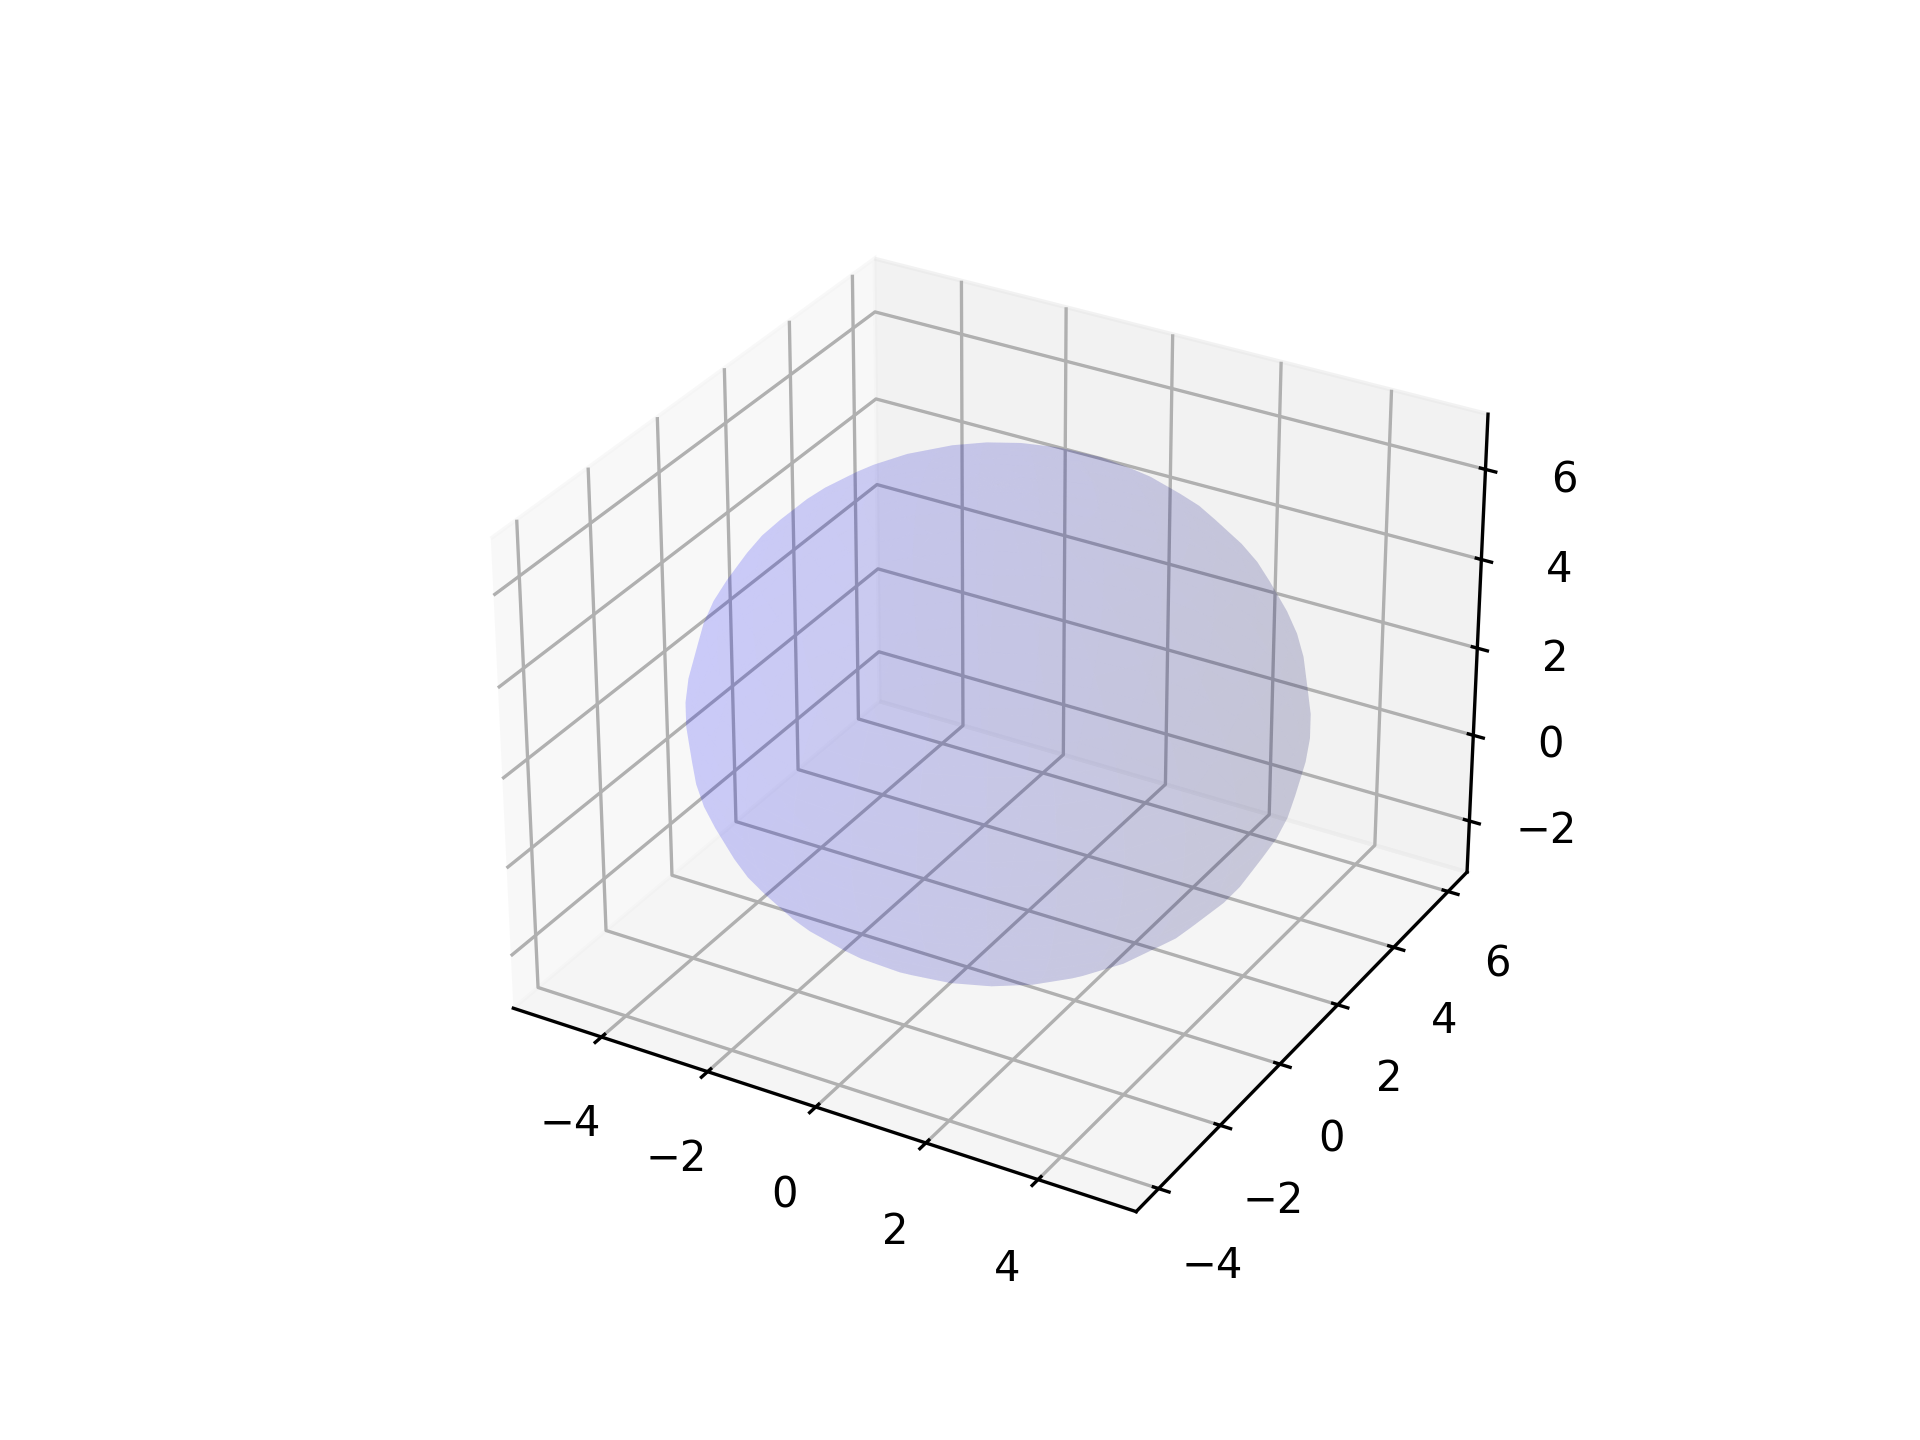
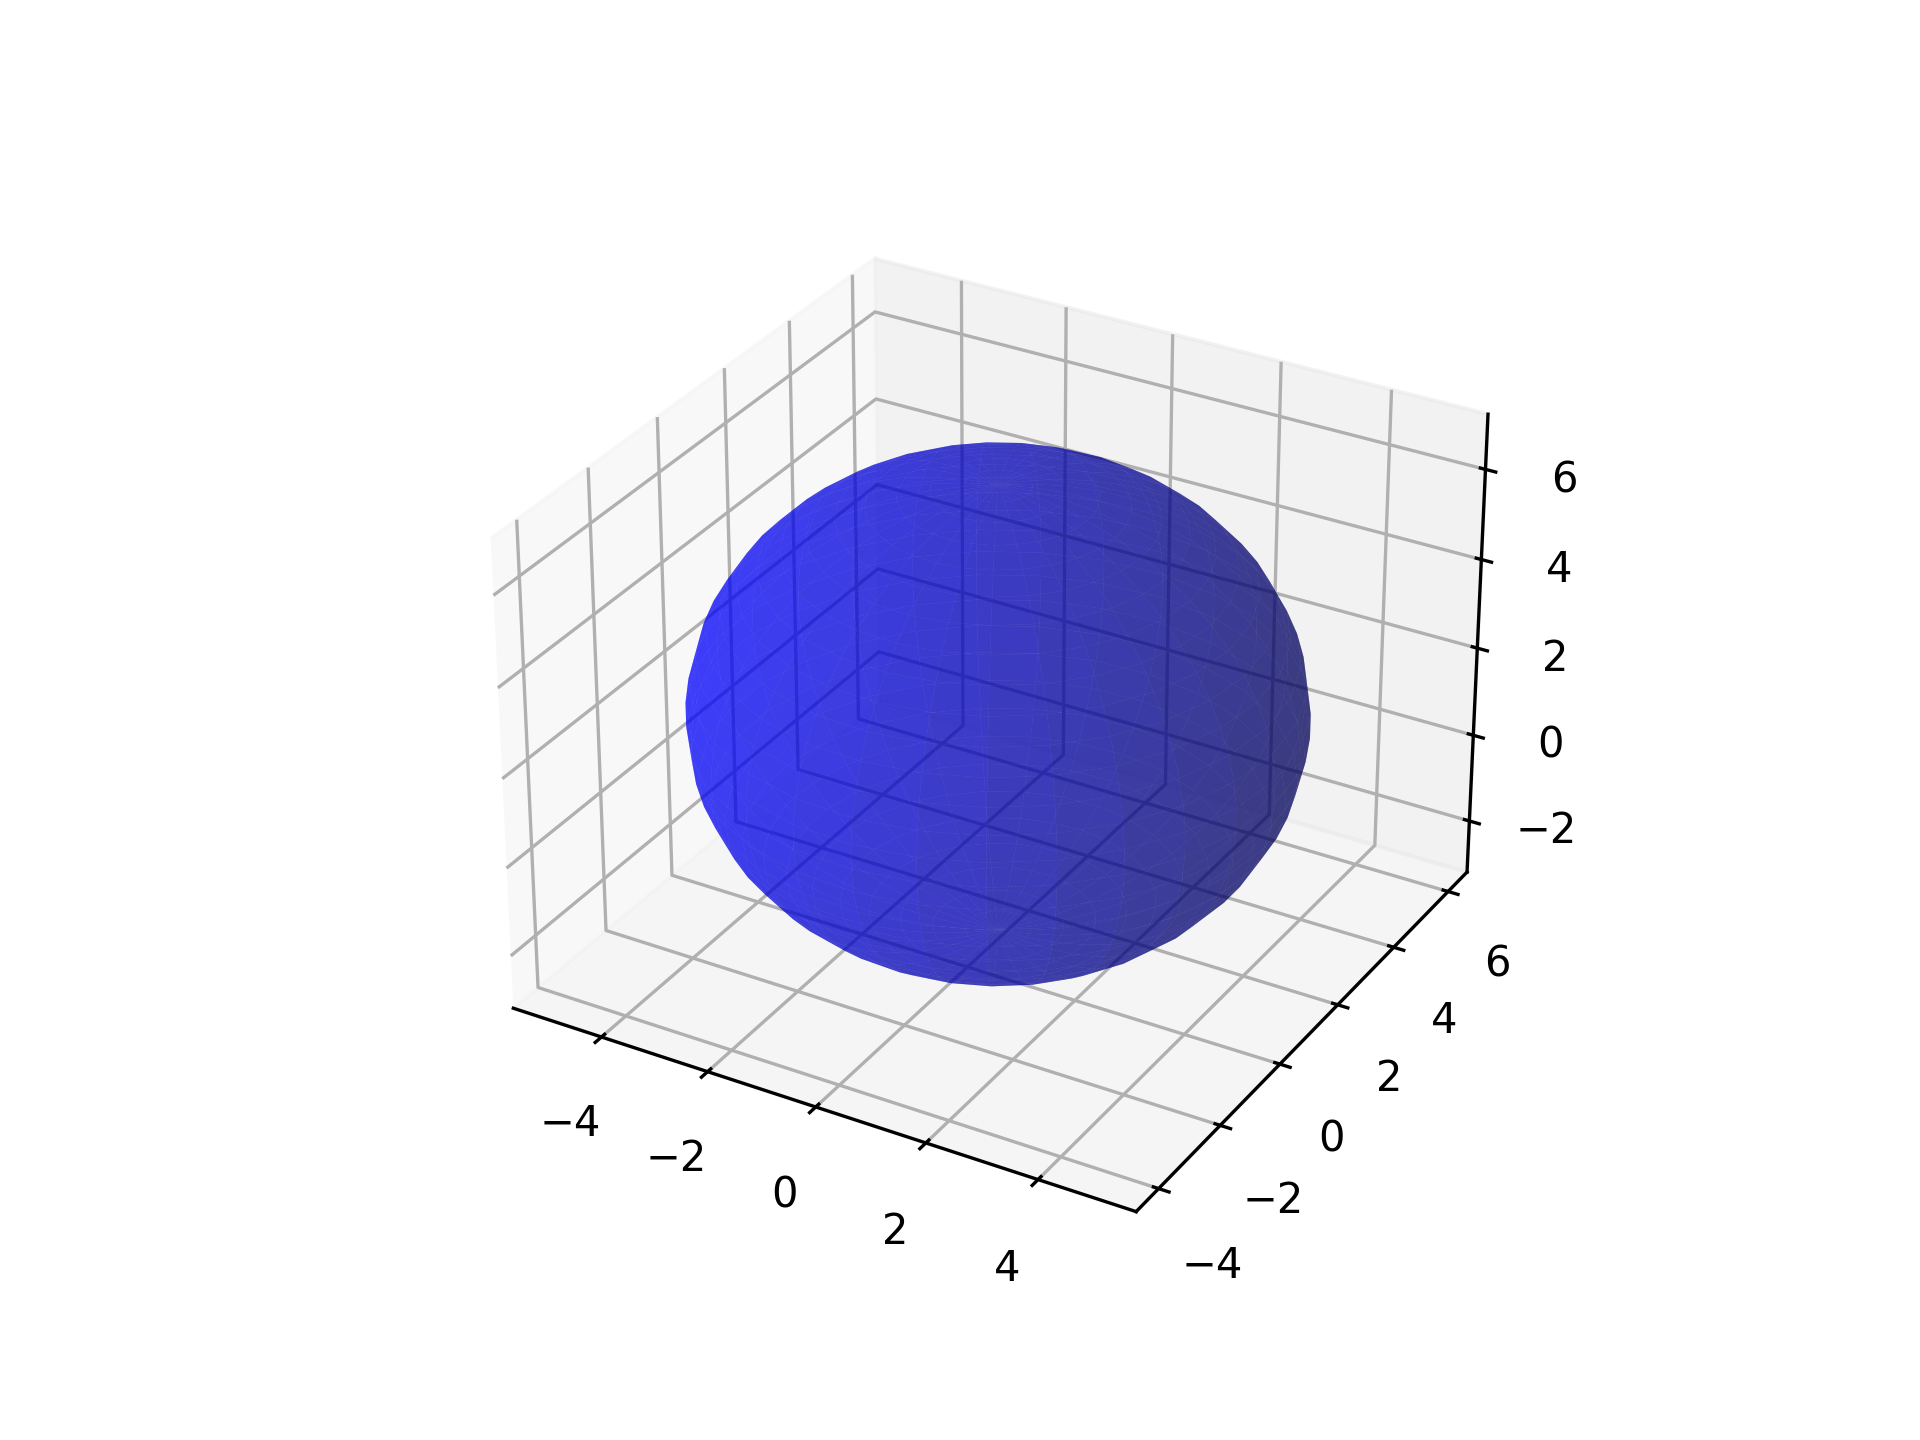
Added bounds, changed name, cleaned up.

Changed region(s): [[0.3438, 0.2812, 0.6875, 0.6875]]

diff --git a/aopy/visualization/base.py b/aopy/visualization/base.py
@@ -2500,7 +2500,7 @@ def plot_plane(plane, gain=1.0, color='grey', alpha=0.15, resolution=100, ax=Non
         
     ax.plot_surface(x, y, z, alpha=alpha, color=color)
 
-def plot_sphere(location, color='gray', radius=4, resolution=20, alpha=1, ax=None, **kwargs):
+def plot_sphere(location, color='gray', radius=4, resolution=20, alpha=1, bounds=None, ax=None, **kwargs):
     """
     Plots a 3D sphere on a specified 3D Matplotlib axis.
 
@@ -2510,8 +2510,9 @@ def plot_sphere(location, color='gray', radius=4, resolution=20, alpha=1, ax=Non
         radius (float, optional): Radius of the sphere. Default is 4.
         resolution (int, optional): Number of subdivisions for the sphere's surface. Higher values 
             result in a smoother appearance but may reduce performance. Default is 20.
-        alpha (float, optional): Transparency of the sphere, where 1 is opaque and 0.4 is fully 
-            transparent. Must be between 0.4 and 1. Default is 1.
+        alpha (float, optional): Transparency of the sphere, where 1 is opaque and 0 is fully 
+            transparent. Default is 1.
+        bounds (tuple, optional): 6-element tuple describing (-x, x, -y, y, -z, z) cursor bounds.
         ax (mpl_toolkits.mplot3d.Axes3D, optional): The Matplotlib 3D axis on which to plot the sphere.
 
     Raises:
@@ -2535,10 +2536,6 @@ def plot_sphere(location, color='gray', radius=4, resolution=20, alpha=1, ax=Non
         fig = plt.figure()
         ax = fig.add_subplot(111, projection='3d')
     
-    # Assert that alpha is within the valid range [0.4, 1]
-    if not (0.4 <= alpha <= 1):
-        raise ValueError(f"Invalid value for transparency (alpha): {alpha}. Must be between 0.4 and 1.")
-    
     # Generate points in spherical coordinates
     phi = np.linspace(0, 2 * np.pi, resolution) # azimuthal angle
     theta = np.linspace(0, np.pi, resolution) # polar angle
@@ -2549,9 +2546,10 @@ def plot_sphere(location, color='gray', radius=4, resolution=20, alpha=1, ax=Non
     z = radius * np.outer(np.ones(np.size(phi)), np.cos(theta)) + location[2]
     
     # Plot sphere
-    ax.plot_surface(x, y, z, color=color, alpha=alpha-0.4)
+    ax.plot_surface(x, y, z, color=color, alpha=alpha, **kwargs)
+    if bounds is not None: set_bounds(bounds, ax)
 
-def plot_targets_3D(target_locations, colors, target_radius=1, resolution=20, alpha=1, ax=None, **kwargs):
+def color_targets_3D(target_locations, colors, target_radius=1, resolution=20, alpha=1, bounds=None, ax=None, **kwargs):
     """
     Plots multiple targets as spheres in 3D space.
 
@@ -2562,18 +2560,12 @@ def plot_targets_3D(target_locations, colors, target_radius=1, resolution=20, al
             targets will default to black. Must match the number of unique targets.
         target_radius (float, optional): Radius of each target sphere. Default is 1.
         resolution (int, optional): Resolution of the spheres (passed to 'plot_sphere'). Default is 20.
-        alpha (float, optional): Transparency of the spheres, where 1 is opaque, and 0.4 is the minimum 
-            allowed transparency. Default is 1.
+        alpha (float, optional): Transparency of the spheres, where 1 is opaque. Default is 1.
+        bounds (tuple, optional): 6-element tuple describing (-x, x, -y, y, -z, z) cursor bounds.
         ax (mpl_toolkits.mplot3d.Axes3D, optional): The Matplotlib 3D axis on which to plot the targets.
 
     Raises:
-        ValueError: If 'alpha' is outside the range [0.4, 1].
         ValueError: If 'colors' is less than the number of unique targets.
-
-    Notes:
-        - This function calls 'plot_sphere' for each target in 'target_locations'.
-        - If 'colors' is not specified, all targets will be rendered in black.
-        - The number of colors provided must be at least equal to the number of unique target locations.
 
     Examples:
         To visualize three targets with different colors and sizes:
@@ -2600,13 +2592,12 @@ def plot_targets_3D(target_locations, colors, target_radius=1, resolution=20, al
         fig = plt.figure()
         ax = fig.add_subplot(111, projection='3d')
     if colors==None:
-        colors = 'black' * len(np.unique(target_locations))
+        colors = ['gray'] * len(np.unique(target_locations))
     if not (len(colors) >= len(np.unique(target_locations))):
         raise ValueError(f"Not enough colors ({len(colors)}) provided for \
                               number of targets ({len(np.unique(target_locations))}).")
-    if not (0.4 <= alpha <= 1):
-        raise ValueError(f"Invalid value for transparency (alpha): {alpha}. Must be between 0.4 and 1.")
         
     unique_targets = set(tuple(target) for target in target_locations)
     for t,target in enumerate(unique_targets):
-        plot_sphere(target, color=colors[t], radius=target_radius, resolution=resolution, alpha=alpha, ax=ax)
+        plot_sphere(target, color=colors[t], radius=target_radius, resolution=resolution, alpha=alpha, ax=ax, **kwargs)
+    if bounds is not None: set_bounds(bounds, ax)

diff --git a/tests/test_visualization.py b/tests/test_visualization.py
@@ -541,7 +541,7 @@ class KinematicsPlottingTests(unittest.TestCase):
             plot_circles(target_position, target_radius, target_color, (-2, 2, -2, 2, -2, 2), ax=ax)
             savefig(write_dir, filename)
 
-    def test_plot_3D_targets(self):
+    def test_color_targets_3D(self):
         from mpl_toolkits.mplot3d import Axes3D
 
         fig = plt.figure()
@@ -549,10 +549,10 @@ class KinematicsPlottingTests(unittest.TestCase):
 
         target_locations = np.array([(0, 0, 0), (2, 2, 2), (-3, -3, -3)])
         colors = ['red', 'blue', 'green']
-        plot_targets_3D(target_locations, colors, target_radius=1.5, alpha=0.7, ax=ax)
+        color_targets_3D(target_locations, colors, target_radius=1.5, alpha=0.7, ax=ax)
 
-        filename = 'plot_3D_targets.png'
-        savefig(write_dir, filename)
+        filename = 'color_targets_3D.png'
+        savefig(docs_dir, filename)
 
     def test_plot_sphere(self):
         from mpl_toolkits.mplot3d import Axes3D
